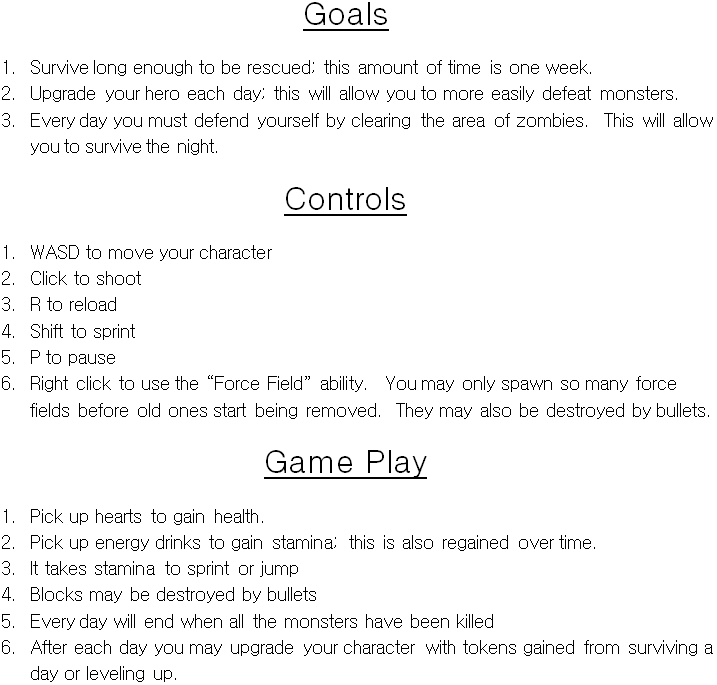
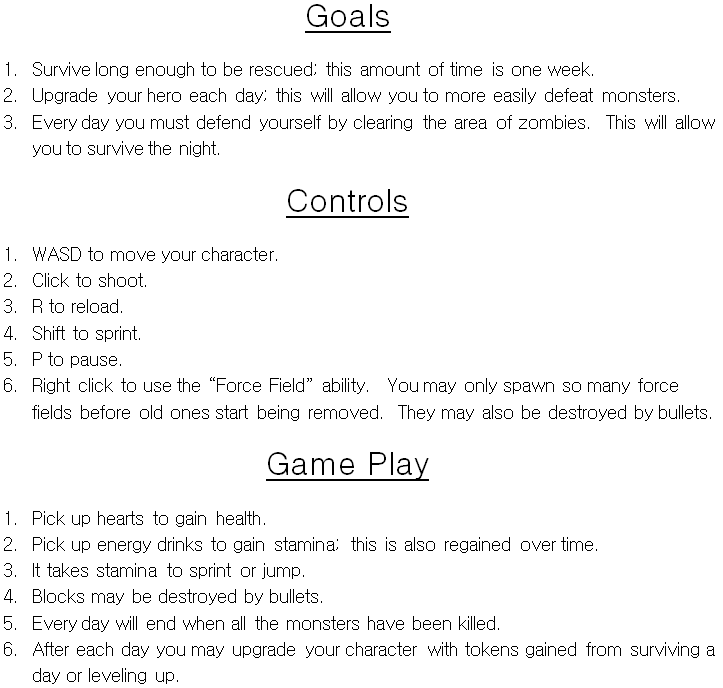
tokens

diff --git a/Dead City II/src/scenes/BattleField.java b/Dead City II/src/scenes/BattleField.java
@@ -45,7 +45,7 @@ public class BattleField extends Scene {
 	public void setup() {
 		super.setup();
 		//Hero joe = new Hero("Trooper", 49000,100,100,100,new RangedWeapon(50,1000,20,10,this),super.getWorldlyThings(), this);
-		amtOfMobsSpawn = 20;
+		amtOfMobsSpawn = 1;
 		amtOfPowerUpsSpawn = 8;
 		mobHealthUpgrade=0;
 		mobHealthUpgradeAmountPerDay=15;
@@ -83,6 +83,8 @@ public class BattleField extends Scene {
 		}
 
 		if(super.getMonsters().size() == 0) {//win conditions
+			Hero joe = ((Hero)super.getFocusedSprite());
+			joe.incrementUpgradeTokens();
 			super.changePanelAndPause("Camp");
 		}
 
@@ -169,8 +171,6 @@ public class BattleField extends Scene {
 		amtOfMobsSpawn+=5;
 		amtOfPowerUpsSpawn+=2;
 		mobHealthUpgrade+=mobHealthUpgradeAmountPerDay;
-		Hero joe = ((Hero)super.getFocusedSprite());
-		joe.incrementUpgradeTokens();
 		generateEdges();
 		generateGround();
 		generateHill(10);

diff --git a/Dead City II/src/scenes/Instructions.java b/Dead City II/src/scenes/Instructions.java
@@ -25,7 +25,7 @@ public class Instructions extends Scene{
 
 	public void draw() {
 		background(255);
-		image(instr, 330,0,840,800);
+		image(instr, 390,0,840,800);
 		
 		
 		super.draw();
